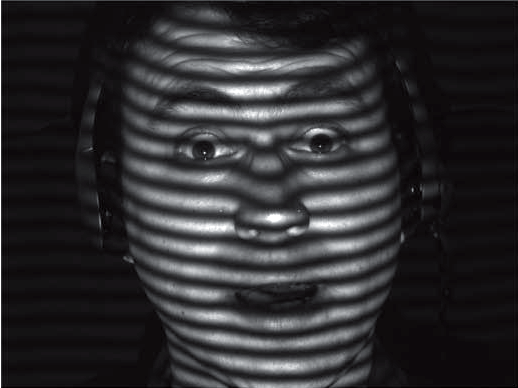
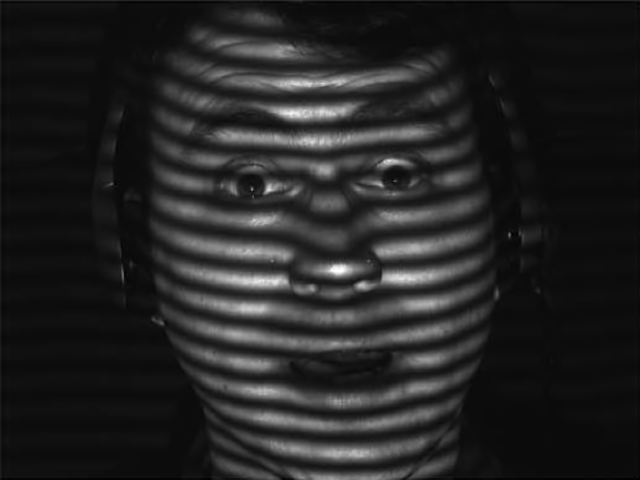
Some benchmarking revisions allowing me to generate the picture http://www.flickr.com/photos/kylemcdonald/4563773916/ and new images at 640x480, resized and de-JPEG-artifact'd.

diff --git a/OpenFrameworks/apps/structuredLight/FastThreePhase/src/testApp.cpp b/OpenFrameworks/apps/structuredLight/FastThreePhase/src/testApp.cpp
@@ -26,6 +26,8 @@ void testApp::setup() {
 	threePhaseWrap.set(0, phase1.getPixels(), 3);
 	threePhaseWrap.set(1, phase2.getPixels(), 3);
 	threePhaseWrap.set(2, phase3.getPixels(), 3);
+
+	at = bt = ct = dt = 0;
 }
 
 void testApp::update(){
@@ -36,26 +38,34 @@ void testApp::update(){
 	int wrapThreshold = mouseX;
 	if(wrapThreshold > 254)
 		wrapThreshold = 254;
-	threePhaseWrap.setThreshold(wrapThreshold);
+	//threePhaseWrap.setThreshold(wrapThreshold);
 
 	int scanlineThreshold = mouseY;
 	if(scanlineThreshold > 254)
 		scanlineThreshold = 254;
-	scanlineOffset.setThreshold(scanlineThreshold);
+	//scanlineOffset.setThreshold(scanlineThreshold);
 
+	int a = ofGetElapsedTimeMillis();
 	threePhaseWrap.makeWrappedPhase(phasePixels, qualityPixels); // 1.8 ms
+	int b = ofGetElapsedTimeMillis();
 	partialQualityMap.makeQualityMap(phasePixels, qualityPixels); // 1.8 ms
+	int c = ofGetElapsedTimeMillis();
 	scanlineOffset.makeOffset(phasePixels, qualityPixels, (char*) offsetPixels); // 3.4 ms
+	int d = ofGetElapsedTimeMillis();
 	unwrap.makeUnwrapped(qualityPixels, phasePixels, (char*) offsetPixels, unwrappedPixels); // 1.3 ms
+	int e = ofGetElapsedTimeMillis();
+
+	at += b - a;
+	bt += c - b;
+	ct += d - c;
+	dt += e - d;
 }
 
 void testApp::draw(){
 	glColor3f(1, 1, 1);
 
-	phase.update();
-	phase.draw(0, 0);
 	unwrapped.update();
-	unwrapped.draw(0, inputHeight);
+	unwrapped.draw(0, 0);
 
 	// draw histogram
 	int* qualityHistogram = scanlineOffset.getQualityHistogram();
@@ -79,5 +89,20 @@ void testApp::draw(){
 	}
 	glEnd();
 
-	ofDrawBitmapString(ofToString((int) ofGetFrameRate()), ofGetWidth() - 32, ofGetHeight() - 8);
+	ofSetColor(255, 255, 255);
+	int t = ofGetFrameNum() + 1;
+	int us = 100;
+	int a = (at * us) / t;
+	int b = (bt * us) / t;
+	int c = (ct * us) / t;
+	int d = (dt * us) / t;
+	int total = (a + b + c + d);
+	int fps = (1000 * us) / total;
+	ofDrawBitmapString(
+		"wrap " + ofToString(a) + "us + " +
+		"quality " + ofToString(b) + "us + " +
+		"offset " + ofToString(c) + "us + " +
+		"unwrap " + ofToString(d) + "us = " +
+		ofToString(total) + "us / " + ofToString(fps) + " fps",
+		10, ofGetHeight() - 10);
 }

diff --git a/OpenFrameworks/apps/structuredLight/FastThreePhase/src/testApp.h b/OpenFrameworks/apps/structuredLight/FastThreePhase/src/testApp.h
@@ -8,8 +8,8 @@
 #include "Unwrap.h"
 
 const int
-	inputWidth = 518,
-	inputHeight = 388;
+	inputWidth = 640,
+	inputHeight = 480;
 
 class testApp : public ofBaseApp {
 public:
@@ -24,4 +24,6 @@ public:
 
 	ofImage phase, quality, offset, unwrapped;
 	unsigned char *qualityPixels, *offsetPixels, *phasePixels, *unwrappedPixels;
+
+	int at, bt, ct, dt;
 };

diff --git a/OpenFrameworks/apps/structuredLight/FastThreePhase/src/ThreePhaseWrap.cpp b/OpenFrameworks/apps/structuredLight/FastThreePhase/src/ThreePhaseWrap.cpp
@@ -6,7 +6,7 @@ unsigned char ThreePhaseWrap::phaseGammaLut[WRAP_LUT_STEPS][WRAP_LUT_STEPS][WRAP
 #endif
 
 ThreePhaseWrap::ThreePhaseWrap() :
-		threshold(128) {
+		threshold(16) {
 	#ifdef USE_WRAP_LUT
 	if(!phaseGammaLutReady) {
 		cout << "Building phase wrap lookup table... ";

diff --git a/OpenFrameworks/apps/structuredLight/FastThreePhase/src/main.cpp b/OpenFrameworks/apps/structuredLight/FastThreePhase/src/main.cpp
@@ -4,6 +4,6 @@
 
 int main() {
 	ofAppGlutWindow window;
-	ofSetupOpenGL(&window, inputWidth, inputHeight * 2, OF_WINDOW);
+	ofSetupOpenGL(&window, inputWidth, inputHeight, OF_WINDOW);
 	ofRunApp(new testApp());
 }
